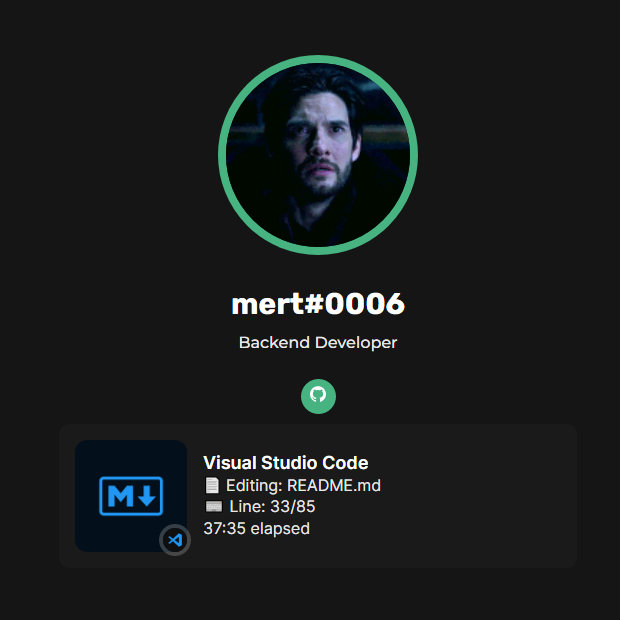
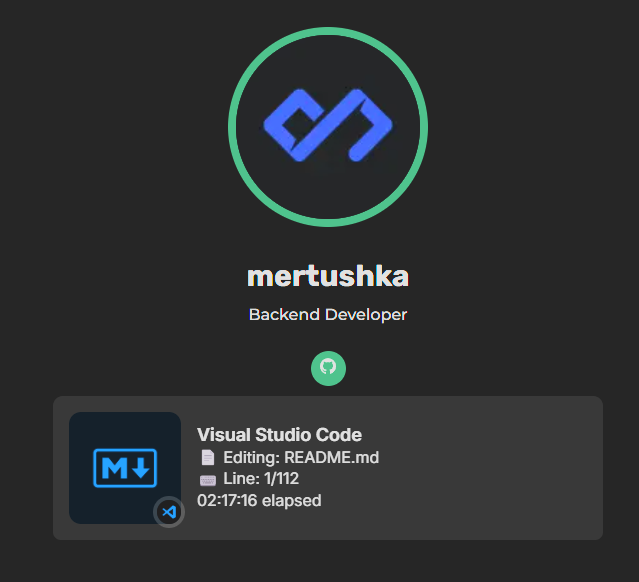
new: few adjustments

Changed region(s): [[0.0613, 0.0309, 0.95, 0.9278]]

diff --git a/src/app/Lanyard.js b/src/app/Lanyard.js
@@ -1,13 +1,10 @@
 import Lanyard from "../hooks/lanyard";
-
+import IframeResizer from "@iframe-resizer/react";
 import Image from "next/image";
-
 import Logo from "../../public/logo.webp";
-
 import { Rubik } from "next/font/google";
 
 import { me } from "../data/informations";
-
 import github from "../data/github";
 import settings from "../data/discord";
 
@@ -21,7 +18,7 @@ const rubik = Rubik({
 function App() {
   const [isValidating, data] = Lanyard();
 
-  const status = settings.showPresence && !isValidating && data;
+  const status = settings.lanyard.enabled && !isValidating && data;
 
   return (
     <>
@@ -57,10 +54,12 @@ function App() {
           <Image
             id="avatar"
             src={
-              "https://cdn.discordapp.com/avatars/" +
-              status.discord_user.id +
-              "/" +
-              status.discord_user.avatar
+              settings.lanyard.useDiscordAvatar
+                ? "https://cdn.discordapp.com/avatars/" +
+                  status.discord_user.id +
+                  "/" +
+                  status.discord_user.avatar
+                : Logo
             }
             width={128}
             height={128}
@@ -69,9 +68,9 @@ function App() {
             className="shadow-dark"
           />
           <h1 id="username" style={rubik.style}>
-            {status.discord_user.username +
-              "#" +
-              status.discord_user.discriminator}
+            {settings.lanyard.useDiscordUsername
+              ? status.discord_user.username
+              : me.nickname}
           </h1>
           <p>{me.status}</p>
 
@@ -87,21 +86,24 @@ function App() {
               </svg>
             </a>
           </div>
-          {status.activities?.filter((a) => a.type !== 4)?.length !== 0 && (
-            <iframe
-              title="Discord Status"
-              id="discord-presence"
-              style={{
-                border: "none",
-                overflow: "hidden",
-                borderRadius: "10px",
-                margin: "10px",
-              }}
-              src={`https://lanyard.mertushka.pw/user/${status.discord_user.id}?background=false&title=false&mode=iframe`}
-              width="50%"
-              height="144px"
-            ></iframe>
-          )}
+          {settings.lanyard.showPresence &&
+            status.activities?.filter((a) => a.type !== 4)?.length !== 0 && (
+              <IframeResizer
+                title="Discord Status"
+                id="discord-presence"
+                style={{
+                  height: "192px",
+                  width: "50%",
+                  border: "none",
+                  overflow: "hidden",
+                  borderRadius: "10px",
+                  margin: "10px",
+                }}
+                src={`https://lanyard.mertushka.pw/user/${status.discord_user.id}?background=false&title=false&mode=iframe`}
+                frameborder="0"
+                scrolling="no"
+              />
+            )}
         </>
       )}
     </>

diff --git a/src/data/discord.js b/src/data/discord.js
@@ -1,6 +1,12 @@
 const settings = {
-  discordID: "1073173936583479408",
-  showPresence: false, // Make it true if you want to show your Discord Presence.
+  discordID: "1169983806615339048",
+  lanyard: {
+    enabled: true,
+    syncSiteSkin: true,
+    showPresence: true,
+    useDiscordUsername: false,
+    useDiscordAvatar: false,
+  },
 };
 
 export default settings;

diff --git a/src/hooks/lanyard.js b/src/hooks/lanyard.js
@@ -3,7 +3,7 @@ import { useLanyard } from "react-use-lanyard";
 import settings from "../data/discord";
 
 const Lanyard = () => {
-  if (!settings.showPresence) return [true, false];
+  if (!settings.lanyard.enabled) return [true, false];
 
   // eslint-disable-next-line
   const lanyard = useLanyard({

diff --git a/src/app/layout.js b/src/app/layout.js
@@ -19,7 +19,7 @@ const montserrat = Montserrat({
 import "../styles/globals.css";
 
 export default function RootLayout({ children }) {
-  if (settings.showPresence) {
+  if (settings.lanyard.syncSiteSkin) {
     const [isValidating, data] = Lanyard();
 
     const status = !isValidating && data;

diff --git a/next.config.js b/next.config.js
@@ -2,7 +2,11 @@
 const nextConfig = {
   reactStrictMode: true,
   images: {
-    domains: ["cdn.discordapp.com"],
+    remotePatterns: [
+      {
+        hostname: "cdn.discordapp.com",
+      },
+    ],
   },
 };
 

diff --git a/README.md b/README.md
@@ -1,6 +1,6 @@
 <h1 id="title" align="center">Personal Website</h1>
 
-<h4 align="center">This is my personal portfolio coded while learning Next.JS!</h4>
+<h4 align="center">This is my personal portfolio, coded while learning Next.JS!</h4>
 
 ### 🔖 Table Of Contents
 
@@ -25,7 +25,7 @@
 
 <h2 id="configuration">⚙ Configuration</h2>
 
-- Edit files in `/src/data/` and you are done!
+- Edit configuration files in `/src/data/` and you are done!
 
 ---
 
@@ -41,7 +41,7 @@
 
 ### **Incredibly Fast, Accessible, Secure, SEO Improved**
 
-[![PageSpeed Insights](/demos/pagespeed.jpeg)](https://pagespeed.web.dev/report?url=https%3A%2F%2Fmertushka.pw%2F&form_factor=desktop)
+[![PageSpeed Insights](/demos/pagespeed.png)](https://pagespeed.web.dev/report?url=https%3A%2F%2Fmertushka.pw%2F&form_factor=desktop)
 
 ### **Real-time Discord Status**
 
@@ -49,9 +49,9 @@
 
 ![Discord Status](demos/discord_status.png)
 
-- Site skins
+- Site skins (Default: Invisible)
 
-![Discord Status](demos/site_theme.jpeg)
+![Discord Status](demos/site_skins.jpeg)
 ![Discord Status](demos/discord_status_toggle.png)
 
 ### **Responsive**
@@ -61,7 +61,8 @@
 ### **Mobile Friendly**
 
 - Detecting swipe events & toggle navbar
-  ![Mobile Friendly](demos/mobile_friendly.gif)
+
+![Mobile Friendly](demos/mobile_friendly.gif)
 
 [Back To The Top](#title)
 
